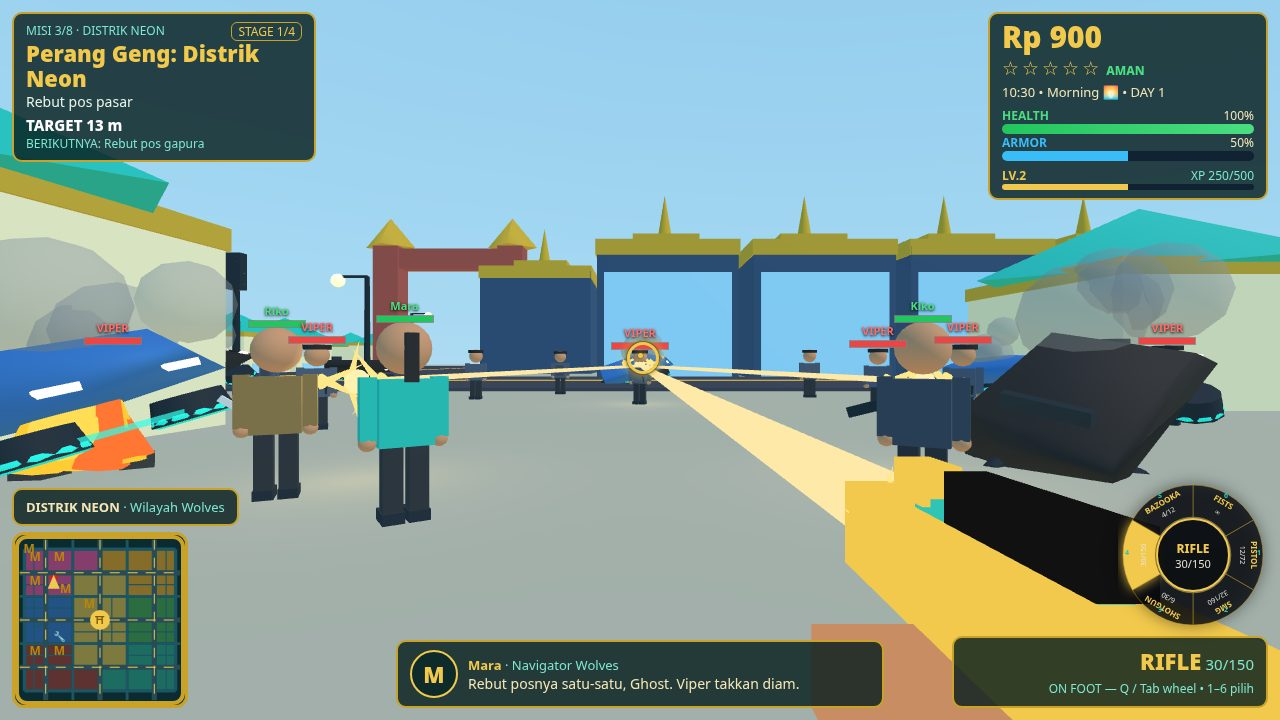
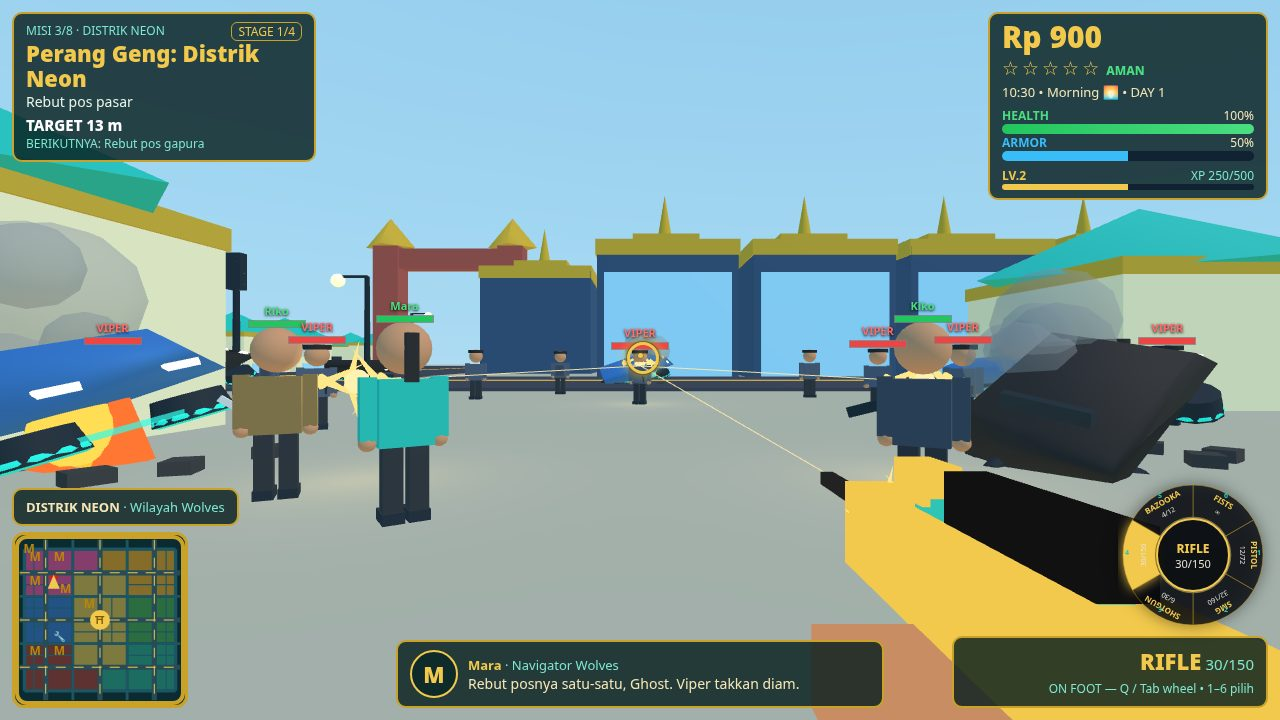
Token launch radar entry for make.fun token-radar-01

diff --git a/game/src/shots.js b/game/src/shots.js
@@ -1,1 +1,1 @@
-import*as THREE from'../vendor/three.module.min.js';import*as A from'./assets3d.js';export function initShots(G){const q=new URLSearchParams(location.search);G.shot=q.get('shot');const s=parseInt(q.get('seed')||'',10);if(Number.isInteger(s))G.seed=s;const T=G.THREE,scene=G.scene;const V3=(x,y,z)=>new T.Vector3(x,y,z);function add(m,x,y,z){m.position.set(x,y,z);scene.add(m);return m;}function limb(a,b,w,color,op){const d=V3(b.x-a.x,b.y-a.y,b.z-a.z),len=d.length();const m=new T.Mesh(new T.BoxGeometry(w,w,len),new T.MeshBasicMaterial({color,...(op||{})}));m.position.copy(a).addScaledVector(d,0.5);m.lookAt(b.x,b.y,b.z);scene.add(m);return m;}function smoke(x,y,z,n){for(let i=0;i<(n||4);i++){const s=new T.Mesh(new T.SphereGeometry(0.5+Math.random()*0.6,8,6),new T.MeshStandardMaterial({color:0x888888,transparent:true,opacity:0.45}));s.position.set(x+(Math.random()-0.5)*2,y+Math.random()*1.5,z+(Math.random()-0.5)*2);scene.add(s);}}function fireAt(x,y,z,k){const g=new T.Group();for(let i=0;i<5;i++){const c=new T.Mesh(new T.ConeGeometry(0.35*k,1.4*k,8),new T.MeshBasicMaterial({color:i%2?0xff7733:0xffcc33}));c.position.set((Math.random()-0.5)*0.8,0.6*k,(Math.random()-0.5)*0.8);c.rotation.z=(Math.random()-0.5)*0.6;g.add(c);}const glow=new T.Mesh(new T.SphereGeometry(0.5*k,10,8),new T.MeshBasicMaterial({color:0xffdd55}));glow.position.y=0.4*k;g.add(glow);g.position.set(x,y,z);scene.add(g);return g;}function flashAt(x,y,z,k,nl){const g=new T.Group();const core=new T.Mesh(new T.SphereGeometry(0.22*k,8,6),new T.MeshBasicMaterial({color:0xfff2b0}));g.add(core);for(let i=0;i<7;i++){const spike=new T.Mesh(new T.ConeGeometry(0.09*k,0.9*k,6),new T.MeshBasicMaterial({color:0xffe98a}));const a=(i/7)*Math.PI*2;spike.position.set(Math.cos(a)*0.3*k,Math.sin(a)*0.3*k,0);spike.rotation.z=-a+Math.PI/2;g.add(spike);}if(!nl){const li=new T.PointLight(0xffe98a,2.2,9);g.add(li);}g.position.set(x,y,z);scene.add(g);return g;}function tracer(a,b){return limb(a,b,0.09,0xffe9a8);}function tracerLine(a,b){const line=new T.Line(new T.BufferGeometry().setFromPoints([V3(a.x,a.y,a.z),V3(b.x,b.y,b.z)]),new T.LineBasicMaterial({color:0xffe9a8,transparent:true,opacity:0.9}));scene.add(line);return line;}function wreck(x,z,rot,kind){const g=(kind==='viper'?A.makeViper():kind==='truck'?A.makeGajahTruck():A.makeHoverCar({color:0x2f6fb2}));g.position.set(x,0.4,z);g.rotation.set(0.25,rot||0,0.3);scene.add(g);for(let i=0;i<4;i++){const d=new T.Mesh(new T.BoxGeometry(0.4,0.2,0.5),new T.MeshStandardMaterial({color:0x333333}));d.position.set(x+(Math.random()-0.5)*4,0.15,z+(Math.random()-0.5)*4);d.rotation.y=Math.random()*3;scene.add(d);}fireAt(x,0.3,z,1);smoke(x,1.5,z,5);return g;}function setCar(x,z,heading,speed){const c=G.car;if(!c)return;c.group.position.set(x,0.55,z);c.group.rotation.y=heading;c.heading=heading;c.yaw=heading;c.speed=speed||0;c.speedKmh=(speed||0)*3.6;if(G.player)G.player.yaw=heading;}function setPlayer(x,z,yaw){const p=G.player;if(!p)return;p.pos.set(x,0,z);p.yaw=yaw||0;p.group.rotation.y=yaw||0;}function lookAt(px,py,pz,lx,ly,lz,fov){G.shotCam={pos:V3(px,py,pz),look:V3(lx,ly,lz)};if(fov){G.camera.fov=fov;G.camera.updateProjectionMatrix();}}function stageMidGame(){const Q=G.quests;if(!Q)return;const P=G.player;if(!P)return;const go=(x,z)=>{P.pos.set(x,0,z);Q.update();};for(let i=0;i<15&&i<Q.collectibles.length;i++)go(Q.collectibles[i].x,Q.collectibles[i].z);Q.start('foto');for(const sp of Q.photoSpots)go(sp.x,sp.z);Q.start('paket');go(-200,-20);go(200,-170);}function primeHud(){if(G.hud){G.hud.update();G.hud.update();}}function settle(){for(let i=0;i<4;i++)if(G.updateTraffic)G.updateTraffic(0.5);}function scatterCars(n,cx,cz){const cars=(G.traffic||[]).slice(0,n);cars.forEach((c,i)=>{const m=c.mesh||c.group;if(!m)return;m.position.set(cx+(i%2?5:-5)+(i-1)*3,0.4,cz+18+i*13);m.rotation.y=0;});}function crowdPeds(n,cx,cz,spread){const peds=(G.peds||[]).slice(0,n);peds.forEach((p,i)=>{const m=p.mesh||p.group;if(!m)return;const side=i%2?1:-1;m.position.set(cx+side*(5+(i%3)*2),0,cz+6+Math.floor(i/2)*5+(Math.random()-0.5)*(spread||2));m.rotation.y=side>0?-Math.PI/2:Math.PI/2;p.state='cheer';});}function fleePeds(n,cx,cz){const peds=(G.peds||[]).slice(0,n);peds.forEach((p,i)=>{const m=p.mesh||p.group;if(!m)return;const a=(i/n)*Math.PI*2;const r=10+i;const px=cx+Math.cos(a)*r,pz=cz+Math.sin(a)*r;m.position.set(px,0,pz);m.rotation.y=Math.atan2(px-cx,pz-cz)+Math.PI;p.state='flee';p.fleeT=3;});}function confetti(n,cx,cy,cz){const cols=[0xf2c94c,0x14b8a6,0xff4fa3,0xffffff,0xff7733];for(let i=0;i<n;i++){const m=new T.Mesh(new T.BoxGeometry(0.18,0.02,0.18),new T.MeshBasicMaterial({color:cols[i%cols.length]}));m.position.set(cx+(Math.random()-0.5)*24,cy+Math.random()*6,cz+(Math.random()-0.5)*16);m.rotation.set(Math.random()*3,Math.random()*3,0);scene.add(m);}}function checkeredLine(z,x0,x1){const g=new T.Group();const n=16;for(let i=0;i<n;i++){const sq=new T.Mesh(new T.PlaneGeometry((x1-x0)/n,1.2),new T.MeshBasicMaterial({color:i%2?0x111111:0xffffff}));sq.rotation.x=-Math.PI/2;sq.position.set(x0+(i+0.5)*(x1-x0)/n,0.25,z);g.add(sq);}scene.add(g);return g;}function brass(n,cx,cz){for(let i=0;i<n;i++){const b=new T.Mesh(new T.CylinderGeometry(0.03,0.03,0.12,6),new T.MeshStandardMaterial({color:0xd4a017,metalness:0.9,roughness:0.3}));b.position.set(cx+(Math.random()-0.5)*2,0.06,cz+(Math.random()-0.5)*2);b.rotation.z=Math.PI/2;scene.add(b);}}function stageCover(){stageMidGame();setPlayer(-228,-270,Math.PI);setCar(-230,-272,Math.PI,22);if(G.missions){G.missions.start(0);const m=G.missions.active;if(m){m.phase=3;G.missions.counters.laps=3;const ps=[0,45,120,210,340];m.racers.forEach((r,i)=>{r.p=ps[i]||0;});}}checkeredLine(-275.5,-244,-216);settle();const flagman=A.makePed('street');add(flagman,-224,0,-273);const flag=new T.Mesh(new T.PlaneGeometry(1.2,0.8),new T.MeshBasicMaterial({color:0xffffff,side:T.DoubleSide}));flag.position.set(-224,2.2,-273);scene.add(flag);const pole=new T.Mesh(new T.CylinderGeometry(0.05,0.05,2.4,8),new T.MeshStandardMaterial({color:0x8a6d3b}));pole.position.set(-224.6,1.2,-273);scene.add(pole);crowdPeds(12,-230,-272,2);const fg=(G.peds||[]).slice(12,20);fg.forEach((p,i)=>{const m=p.mesh||p.group;if(!m)return;m.position.set(-244+i*3.5,0,-278+(i%3)*2);m.rotation.y=Math.PI;p.state='cheer';});for(const[nx,nz]of[[-222,-260],[-238,-260]]){const npd=A.makeNPDInterceptor();npd.position.set(nx,0.4,nz);npd.rotation.y=Math.atan2(-(-272-nz),-230-nx);scene.add(npd);}scatterCars(4,-230,-272);confetti(100,-230,3,-268);lookAt(-228,2.5,-283,-230,4,-255,62);primeHud();}function stageDriveby(){stageMidGame();setPlayer(-196,-158,0);if(G.player){G.player.onFoot=true;G.player.inCar=false;}if(G.combat)G.combat.stageFps();const es=G.enemies||[];if(es[1])es[1].group.position.set(-196,0,-180);if(G.hud)G.hud.setWeapon(3);if(G.missions){G.missions.start(2);}if(G.combat){G.combat.spawnEnemy('viper',-188,-172);G.combat.spawnEnemy('viper',-204,-172);}wreck(-188,-168,0.6,'viper');wreck(-204,-166,-0.4,'car');wreck(-196,-196,0.2,'car');wreck(-212,-178,1.1,'viper');wreck(-180,-182,-0.9,'car');flashAt(-196,1.6,-180,1);flashAt(-192,1.4,-166,0.8);flashAt(-200,1.4,-166,0.8);tracer(V3(-195.6,1.46,-158.9),V3(-196,1.5,-180));tracer(V3(-192,1.4,-166),V3(-196,1.5,-178));tracer(V3(-200,1.4,-166),V3(-196,1.5,-178));flashAt(-195.6,1.46,-158.9,0.1,true);brass(12,-196,-158);fleePeds(6,-196,-170);settle();lookAt(-196,1.7,-158,-196,1.72,-190,65);primeHud();}function stageFpsShot(){stageMidGame();setPlayer(-236,-60,0);if(G.player){G.player.onFoot=true;G.player.inCar=false;}if(G.combat)G.combat.stageFps();if(G.openWheel)G.openWheel(3);if(G.missions){G.missions.start(2);const m=G.missions.active;if(m)m.phase=3;}wreck(-244,-78,0.5,'viper');wreck(-228,-74,-0.7,'viper');fireAt(-240,0.3,-82,0.8);fireAt(-232,0.3,-70,0.6);const pp={x:-236,y:1.7,z:-60};const es=G.enemies||[];es.forEach((e,i)=>{if(!e.alive)return;const ep=e.group.position;flashAt(ep.x,1.4,ep.z,0.9);const t={x:ep.x+(pp.x-ep.x)*0.92,y:1.35,z:ep.z+(pp.z-ep.z)*0.92};tracer(V3(ep.x,1.4,ep.z),V3(t.x,t.y,t.z));});flashAt(-235.6,1.46,-60.9,0.1,true);tracer(V3(-235.6,1.46,-60.9),V3(-244,1.3,-79));fleePeds(3,-236,-72);settle();lookAt(-236,1.7,-60,-236,1.72,-90,65);primeHud();}function stageMapShot(){stageMidGame();setPlayer(-170,-140,0);if(G.missions)G.missions.start(0);if(G.map){G.map.setWaypoint(0,0);G.map.openMap();G.map.render();}primeHud();}function stageShot(name){G.setTimeOfDay&&G.setTimeOfDay(10.5);if(name==='cover')stageCover();else if(name==='driveby')stageDriveby();else if(name==='fps')stageFpsShot();else if(name==='map')stageMapShot();G.updateCamera&&G.updateCamera(0);if((name==='driveby'||name==='fps')&&G.combat)G.combat.update(0);if(G.renderer&&G.scene&&G.camera)G.renderer.render(G.scene,G.camera);if(G.renderer&&G.scene&&G.camera)G.renderer.render(G.scene,G.camera);window.__shotReady=true;}G.stageShot=stageShot;}
+import*as THREE from'../vendor/three.module.min.js';import*as A from'./assets3d.js';export function initShots(G){const q=new URLSearchParams(location.search);G.shot=q.get('shot');const s=parseInt(q.get('seed')||'',10);if(Number.isInteger(s))G.seed=s;const T=G.THREE,scene=G.scene;const V3=(x,y,z)=>new T.Vector3(x,y,z);function add(m,x,y,z){m.position.set(x,y,z);scene.add(m);return m;}function limb(a,b,w,color,op){const d=V3(b.x-a.x,b.y-a.y,b.z-a.z),len=d.length();const m=new T.Mesh(new T.BoxGeometry(w,w,len),new T.MeshBasicMaterial({color,...(op||{})}));m.position.copy(a).addScaledVector(d,0.5);m.lookAt(b.x,b.y,b.z);scene.add(m);return m;}function smoke(x,y,z,n){for(let i=0;i<(n||4);i++){const s=new T.Mesh(new T.SphereGeometry(0.5+Math.random()*0.6,8,6),new T.MeshStandardMaterial({color:0x888888,transparent:true,opacity:0.45}));s.position.set(x+(Math.random()-0.5)*2,y+Math.random()*1.5,z+(Math.random()-0.5)*2);scene.add(s);}}function fireAt(x,y,z,k){const g=new T.Group();for(let i=0;i<5;i++){const c=new T.Mesh(new T.ConeGeometry(0.35*k,1.4*k,8),new T.MeshBasicMaterial({color:i%2?0xff7733:0xffcc33}));c.position.set((Math.random()-0.5)*0.8,0.6*k,(Math.random()-0.5)*0.8);c.rotation.z=(Math.random()-0.5)*0.6;g.add(c);}const glow=new T.Mesh(new T.SphereGeometry(0.5*k,10,8),new T.MeshBasicMaterial({color:0xffdd55}));glow.position.y=0.4*k;g.add(glow);g.position.set(x,y,z);scene.add(g);return g;}function flashAt(x,y,z,k,nl){const g=new T.Group();const core=new T.Mesh(new T.SphereGeometry(0.22*k,8,6),new T.MeshBasicMaterial({color:0xfff2b0}));g.add(core);for(let i=0;i<7;i++){const spike=new T.Mesh(new T.ConeGeometry(0.09*k,0.9*k,6),new T.MeshBasicMaterial({color:0xffe98a}));const a=(i/7)*Math.PI*2;spike.position.set(Math.cos(a)*0.3*k,Math.sin(a)*0.3*k,0);spike.rotation.z=-a+Math.PI/2;g.add(spike);}if(!nl){const li=new T.PointLight(0xffe98a,2.2,9);g.add(li);}g.position.set(x,y,z);scene.add(g);return g;}function tracer(a,b){return limb(a,b,0.09,0xffe9a8);}function tracerLine(a,b){const line=new T.Line(new T.BufferGeometry().setFromPoints([V3(a.x,a.y,a.z),V3(b.x,b.y,b.z)]),new T.LineBasicMaterial({color:0xffe9a8,transparent:true,opacity:0.9}));scene.add(line);return line;}function wreck(x,z,rot,kind){const g=(kind==='viper'?A.makeViper():kind==='truck'?A.makeGajahTruck():A.makeHoverCar({color:0x2f6fb2}));g.position.set(x,0.4,z);g.rotation.set(0.25,rot||0,0.3);scene.add(g);for(let i=0;i<4;i++){const d=new T.Mesh(new T.BoxGeometry(0.4,0.2,0.5),new T.MeshStandardMaterial({color:0x333333}));d.position.set(x+(Math.random()-0.5)*4,0.15,z+(Math.random()-0.5)*4);d.rotation.y=Math.random()*3;scene.add(d);}fireAt(x,0.3,z,1);smoke(x,1.5,z,5);return g;}function setCar(x,z,heading,speed){const c=G.car;if(!c)return;c.group.position.set(x,0.55,z);c.group.rotation.y=heading;c.heading=heading;c.yaw=heading;c.speed=speed||0;c.speedKmh=(speed||0)*3.6;if(G.player)G.player.yaw=heading;}function setPlayer(x,z,yaw){const p=G.player;if(!p)return;p.pos.set(x,0,z);p.yaw=yaw||0;p.group.rotation.y=yaw||0;}function lookAt(px,py,pz,lx,ly,lz,fov){G.shotCam={pos:V3(px,py,pz),look:V3(lx,ly,lz)};if(fov){G.camera.fov=fov;G.camera.updateProjectionMatrix();}}function stageMidGame(){const Q=G.quests;if(!Q)return;const P=G.player;if(!P)return;const go=(x,z)=>{P.pos.set(x,0,z);Q.update();};for(let i=0;i<15&&i<Q.collectibles.length;i++)go(Q.collectibles[i].x,Q.collectibles[i].z);Q.start('foto');for(const sp of Q.photoSpots)go(sp.x,sp.z);Q.start('paket');go(-200,-20);go(200,-170);}function primeHud(){if(G.hud){G.hud.update();G.hud.update();}}function settle(){for(let i=0;i<4;i++)if(G.updateTraffic)G.updateTraffic(0.5);}function scatterCars(n,cx,cz){const cars=(G.traffic||[]).slice(0,n);cars.forEach((c,i)=>{const m=c.mesh||c.group;if(!m)return;m.position.set(cx+(i%2?5:-5)+(i-1)*3,0.4,cz+18+i*13);m.rotation.y=0;});}function crowdPeds(n,cx,cz,spread){const peds=(G.peds||[]).slice(0,n);peds.forEach((p,i)=>{const m=p.mesh||p.group;if(!m)return;const side=i%2?1:-1;m.position.set(cx+side*(5+(i%3)*2),0,cz+6+Math.floor(i/2)*5+(Math.random()-0.5)*(spread||2));m.rotation.y=side>0?-Math.PI/2:Math.PI/2;p.state='cheer';});}function fleePeds(n,cx,cz){const peds=(G.peds||[]).slice(0,n);peds.forEach((p,i)=>{const m=p.mesh||p.group;if(!m)return;const a=(i/n)*Math.PI*2;const r=10+i;const px=cx+Math.cos(a)*r,pz=cz+Math.sin(a)*r;m.position.set(px,0,pz);m.rotation.y=Math.atan2(px-cx,pz-cz)+Math.PI;p.state='flee';p.fleeT=3;});}function confetti(n,cx,cy,cz){const cols=[0xf2c94c,0x14b8a6,0xff4fa3,0xffffff,0xff7733];for(let i=0;i<n;i++){const m=new T.Mesh(new T.BoxGeometry(0.18,0.02,0.18),new T.MeshBasicMaterial({color:cols[i%cols.length]}));m.position.set(cx+(Math.random()-0.5)*24,cy+Math.random()*6,cz+(Math.random()-0.5)*16);m.rotation.set(Math.random()*3,Math.random()*3,0);scene.add(m);}}function checkeredLine(z,x0,x1){const g=new T.Group();const n=16;for(let i=0;i<n;i++){const sq=new T.Mesh(new T.PlaneGeometry((x1-x0)/n,1.2),new T.MeshBasicMaterial({color:i%2?0x111111:0xffffff}));sq.rotation.x=-Math.PI/2;sq.position.set(x0+(i+0.5)*(x1-x0)/n,0.25,z);g.add(sq);}scene.add(g);return g;}function brass(n,cx,cz){for(let i=0;i<n;i++){const b=new T.Mesh(new T.CylinderGeometry(0.03,0.03,0.12,6),new T.MeshStandardMaterial({color:0xd4a017,metalness:0.9,roughness:0.3}));b.position.set(cx+(Math.random()-0.5)*2,0.06,cz+(Math.random()-0.5)*2);b.rotation.z=Math.PI/2;scene.add(b);}}function stageCover(){stageMidGame();setPlayer(-228,-270,Math.PI);setCar(-230,-272,Math.PI,22);if(G.missions){G.missions.start(0);const m=G.missions.active;if(m){m.phase=3;G.missions.counters.laps=3;const ps=[0,45,120,210,340];m.racers.forEach((r,i)=>{r.p=ps[i]||0;});}}checkeredLine(-275.5,-244,-216);settle();const flagman=A.makePed('street');add(flagman,-224,0,-273);const flag=new T.Mesh(new T.PlaneGeometry(1.2,0.8),new T.MeshBasicMaterial({color:0xffffff,side:T.DoubleSide}));flag.position.set(-224,2.2,-273);scene.add(flag);const pole=new T.Mesh(new T.CylinderGeometry(0.05,0.05,2.4,8),new T.MeshStandardMaterial({color:0x8a6d3b}));pole.position.set(-224.6,1.2,-273);scene.add(pole);crowdPeds(12,-230,-272,2);const fg=(G.peds||[]).slice(12,20);fg.forEach((p,i)=>{const m=p.mesh||p.group;if(!m)return;m.position.set(-244+i*3.5,0,-278+(i%3)*2);m.rotation.y=Math.PI;p.state='cheer';});for(const[nx,nz]of[[-222,-260],[-238,-260]]){const npd=A.makeNPDInterceptor();npd.position.set(nx,0.4,nz);npd.rotation.y=Math.atan2(-(-272-nz),-230-nx);scene.add(npd);}scatterCars(4,-230,-272);confetti(100,-230,3,-268);lookAt(-228,2.5,-283,-230,4,-255,62);primeHud();}function stageDriveby(){stageMidGame();setPlayer(-196,-158,0);if(G.player){G.player.onFoot=true;G.player.inCar=false;}if(G.combat)G.combat.stageFps();const es=G.enemies||[];if(es[1])es[1].group.position.set(-196,0,-180);if(G.hud)G.hud.setWeapon(3);if(G.missions){G.missions.start(2);}if(G.combat){G.combat.spawnEnemy('viper',-188,-172);G.combat.spawnEnemy('viper',-204,-172);}wreck(-188,-168,0.6,'viper');wreck(-204,-166,-0.4,'car');wreck(-196,-196,0.2,'car');wreck(-212,-178,1.1,'viper');wreck(-180,-182,-0.9,'car');flashAt(-196,1.6,-180,1);flashAt(-192,1.4,-166,0.8);flashAt(-200,1.4,-166,0.8);tracerLine(V3(-195.6,1.46,-158.9),V3(-196,1.5,-180));tracerLine(V3(-192,1.4,-166),V3(-196,1.5,-178));tracerLine(V3(-200,1.4,-166),V3(-196,1.5,-178));flashAt(-195.6,1.46,-158.9,0.1,true);brass(12,-196,-158);fleePeds(6,-196,-170);settle();lookAt(-196,1.7,-158,-196,1.72,-190,65);primeHud();}function stageFpsShot(){stageMidGame();setPlayer(-236,-60,0);if(G.player){G.player.onFoot=true;G.player.inCar=false;}if(G.combat)G.combat.stageFps();if(G.openWheel)G.openWheel(3);if(G.missions){G.missions.start(2);const m=G.missions.active;if(m)m.phase=3;}wreck(-244,-78,0.5,'viper');wreck(-228,-74,-0.7,'viper');fireAt(-240,0.3,-82,0.8);fireAt(-232,0.3,-70,0.6);const pp={x:-236,y:1.7,z:-60};const es=G.enemies||[];es.forEach((e,i)=>{if(!e.alive)return;const ep=e.group.position;flashAt(ep.x,1.4,ep.z,0.9);const t={x:ep.x+(pp.x-ep.x)*0.92,y:1.35,z:ep.z+(pp.z-ep.z)*0.92};tracer(V3(ep.x,1.4,ep.z),V3(t.x,t.y,t.z));});flashAt(-235.6,1.46,-60.9,0.1,true);tracer(V3(-235.6,1.46,-60.9),V3(-244,1.3,-79));fleePeds(3,-236,-72);settle();lookAt(-236,1.7,-60,-236,1.72,-90,65);primeHud();}function stageMapShot(){stageMidGame();setPlayer(-170,-140,0);if(G.missions)G.missions.start(0);if(G.map){G.map.setWaypoint(0,0);G.map.openMap();G.map.render();}primeHud();}function stageShot(name){G.setTimeOfDay&&G.setTimeOfDay(10.5);if(name==='cover')stageCover();else if(name==='driveby')stageDriveby();else if(name==='fps')stageFpsShot();else if(name==='map')stageMapShot();G.updateCamera&&G.updateCamera(0);if((name==='driveby'||name==='fps')&&G.combat)G.combat.update(0);if(G.renderer&&G.scene&&G.camera)G.renderer.render(G.scene,G.camera);if(G.renderer&&G.scene&&G.camera)G.renderer.render(G.scene,G.camera);window.__shotReady=true;}G.stageShot=stageShot;}
